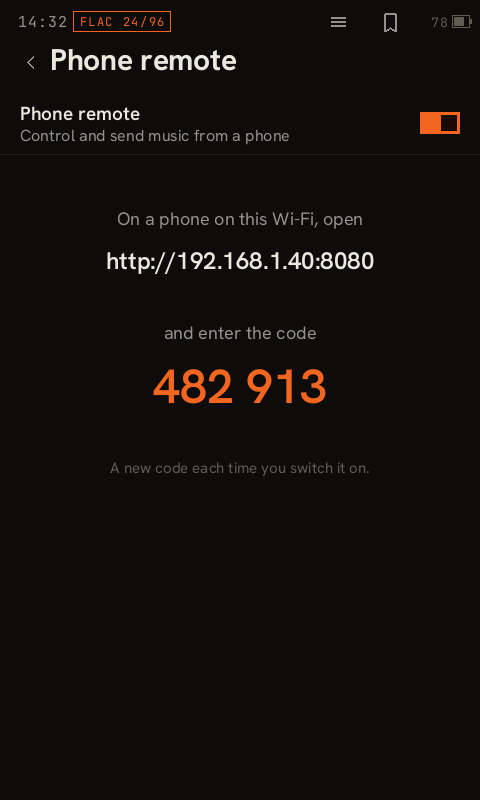
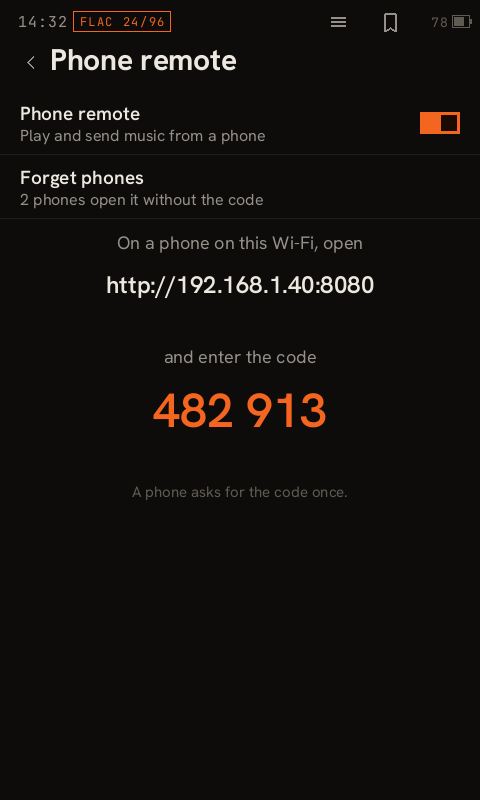
release: prepare v0.4.1

diff --git a/player/cinder-ui/src/settings.rs b/player/cinder-ui/src/settings.rs
@@ -324,7 +324,7 @@ pub const BT_IDLE_OFF_SUB: &str = "Sleeps after 10 min idle, wakes on use";
 // One line, and rustfmt must leave it so: `tools/release.sh` finds and rewrites it by its shape.
 #[macro_export]
 #[rustfmt::skip]
-macro_rules! cinder_version { () => { "0.4.1-rc3" } }
+macro_rules! cinder_version { () => { "0.4.1" } }
 
 /// Firmware/build label shown on the Settings "Firmware" row. The `dev` feature (development
 /// channel, built from the same tree) makes the two builds visually distinguishable on-device.

diff --git a/CHANGELOG.md b/CHANGELOG.md
@@ -16,6 +16,8 @@ level the commit history supports; from `v0.1.6` onward, entries are written as 
 
 ## [Unreleased]
 
+## [0.4.1] — 2026-11-08
+
 ### Added
 
 - **The phone remote does much more, and remembers your phone.** Besides the buttons and sending
@@ -48,42 +50,6 @@ level the commit history supports; from `v0.1.6` onward, entries are written as 
   carries: it offers Update only when there is something newer, and after an update, reconnecting
   the player confirms it took. Before, it showed what the last installer had copied, which looked
   the same whether or not the player had installed it.
-
-### Changed
-
-- **An option that needs another switches it on.** Bluetooth AAC, SBC XQ, ATRAC files and FM
-  recording all work through "Mono and soundscapes over music" (and SBC XQ through AAC), which a
-  sentence in their descriptions said and the installer did not enforce: tick AAC alone and the
-  player got no AAC (reported on Head-Fi). The installer now ticks the needed option too and says
-  so; `components.conf` records it as an `& id` line.
-
-### Fixed
-
-- **Wi-Fi that joined slowly had no address.** When joining took longer than 30 s, the player
-  stopped waiting before asking the router for an address. Wi-Fi then showed as connected while
-  nothing on the internet worked. It now keeps asking in the background. *Seen twice on the
-  owner's network on 11-10; the fix is device-unverified.*
-- **The installer offers a reinstall when the player already runs its version.** The button used to
-  read "Change Cinder's options", which looked like nothing could be updated. It now reads
-  "Reinstall Cinder …" and explains when to use it.
-- **The headphone amplifier sleeps during Bluetooth playback again after a reconnect.** Over
-  Bluetooth the jack's DAC and amplifier are not used, and Cinder put them to sleep after 30 s.
-  When the headphones reconnected and the screen went dark within that time, the player's own
-  low-power mode started first, and in that mode the driver did not act on the switch: in a
-  measured 3-minute LDAC run, they stayed powered the whole time. On Bluetooth they now sleep 3 s
-  after the link is up, before that mode can start. The jack keeps its 30 s, so a pause between
-  tracks does not switch the amplifier off. *Device-verified.*
-- **The touchscreen works sooner after start-up: 2.5 s after the first screen appears, from 4.2 s**
-  (6.9 s on developer builds). The EQ and sound chain and the album-cover thumbnails now load
-  after the screen answers, once it has been left alone for 1.5 s or just before the first thing
-  that plays or changes a setting, so moving between screens never waits for them. Covers fill in
-  a couple of seconds later. Developer builds also moved two diagnostics to the first dark screen
-  and no longer hold the screen for adb's 1 s USB pause. *Device-verified (developer build).*
-
-## [0.4.1] — 2026-11-08
-
-### Added
-
 - **Internet radio can be pinned to the shelf** (#55). Opening the pin loads the station list.
   *Device-verified.*
 - **Wi-Fi networks can be imported from a file** (#55). Put `cinder_wifi.txt` on the player's drive,
@@ -132,6 +98,26 @@ level the commit history supports; from `v0.1.6` onward, entries are written as 
 
 ### Fixed
 
+- **Wi-Fi that joined slowly had no address.** When joining took longer than 30 s, the player
+  stopped waiting before asking the router for an address. Wi-Fi then showed as connected while
+  nothing on the internet worked. It now keeps asking in the background. *Seen twice on the
+  owner's network on 11-10; the fix is device-unverified.*
+- **The installer offers a reinstall when the player already runs its version.** The button used to
+  read "Change Cinder's options", which looked like nothing could be updated. It now reads
+  "Reinstall Cinder …" and explains when to use it.
+- **The headphone amplifier sleeps during Bluetooth playback again after a reconnect.** Over
+  Bluetooth the jack's DAC and amplifier are not used, and Cinder put them to sleep after 30 s.
+  When the headphones reconnected and the screen went dark within that time, the player's own
+  low-power mode started first, and in that mode the driver did not act on the switch: in a
+  measured 3-minute LDAC run, they stayed powered the whole time. On Bluetooth they now sleep 3 s
+  after the link is up, before that mode can start. The jack keeps its 30 s, so a pause between
+  tracks does not switch the amplifier off. *Device-verified.*
+- **The touchscreen works sooner after start-up: 2.5 s after the first screen appears, from 4.2 s**
+  (6.9 s on developer builds). The EQ and sound chain and the album-cover thumbnails now load
+  after the screen answers, once it has been left alone for 1.5 s or just before the first thing
+  that plays or changes a setting, so moving between screens never waits for them. Covers fill in
+  a couple of seconds later. Developer builds also moved two diagnostics to the first dark screen
+  and no longer hold the screen for adb's 1 s USB pause. *Device-verified (developer build).*
 - **MP3 radio stations no longer crackle** (#55). The radio decoded each network read to its last
   byte, and the MP3 decoder treats a frame cut off at the end as damage: it threw that piece away
   and lost the data the next frame borrows from it. On Radio Paradise that was 188 to 252 damaged
@@ -222,6 +208,11 @@ level the commit history supports; from `v0.1.6` onward, entries are written as 
 
 ### Changed
 
+- **An option that needs another switches it on.** Bluetooth AAC, SBC XQ, ATRAC files and FM
+  recording all work through "Mono and soundscapes over music" (and SBC XQ through AAC), which a
+  sentence in their descriptions said and the installer did not enforce: tick AAC alone and the
+  player got no AAC (reported on Head-Fi). The installer now ticks the needed option too and says
+  so; `components.conf` records it as an `& id` line.
 - **Joining a Wi-Fi network keeps the others.** The player remembered one network: joining a new one
   replaced it. Joining now adds to the list, and Forget removes only the network the player is on.
   *Device-verified.*
